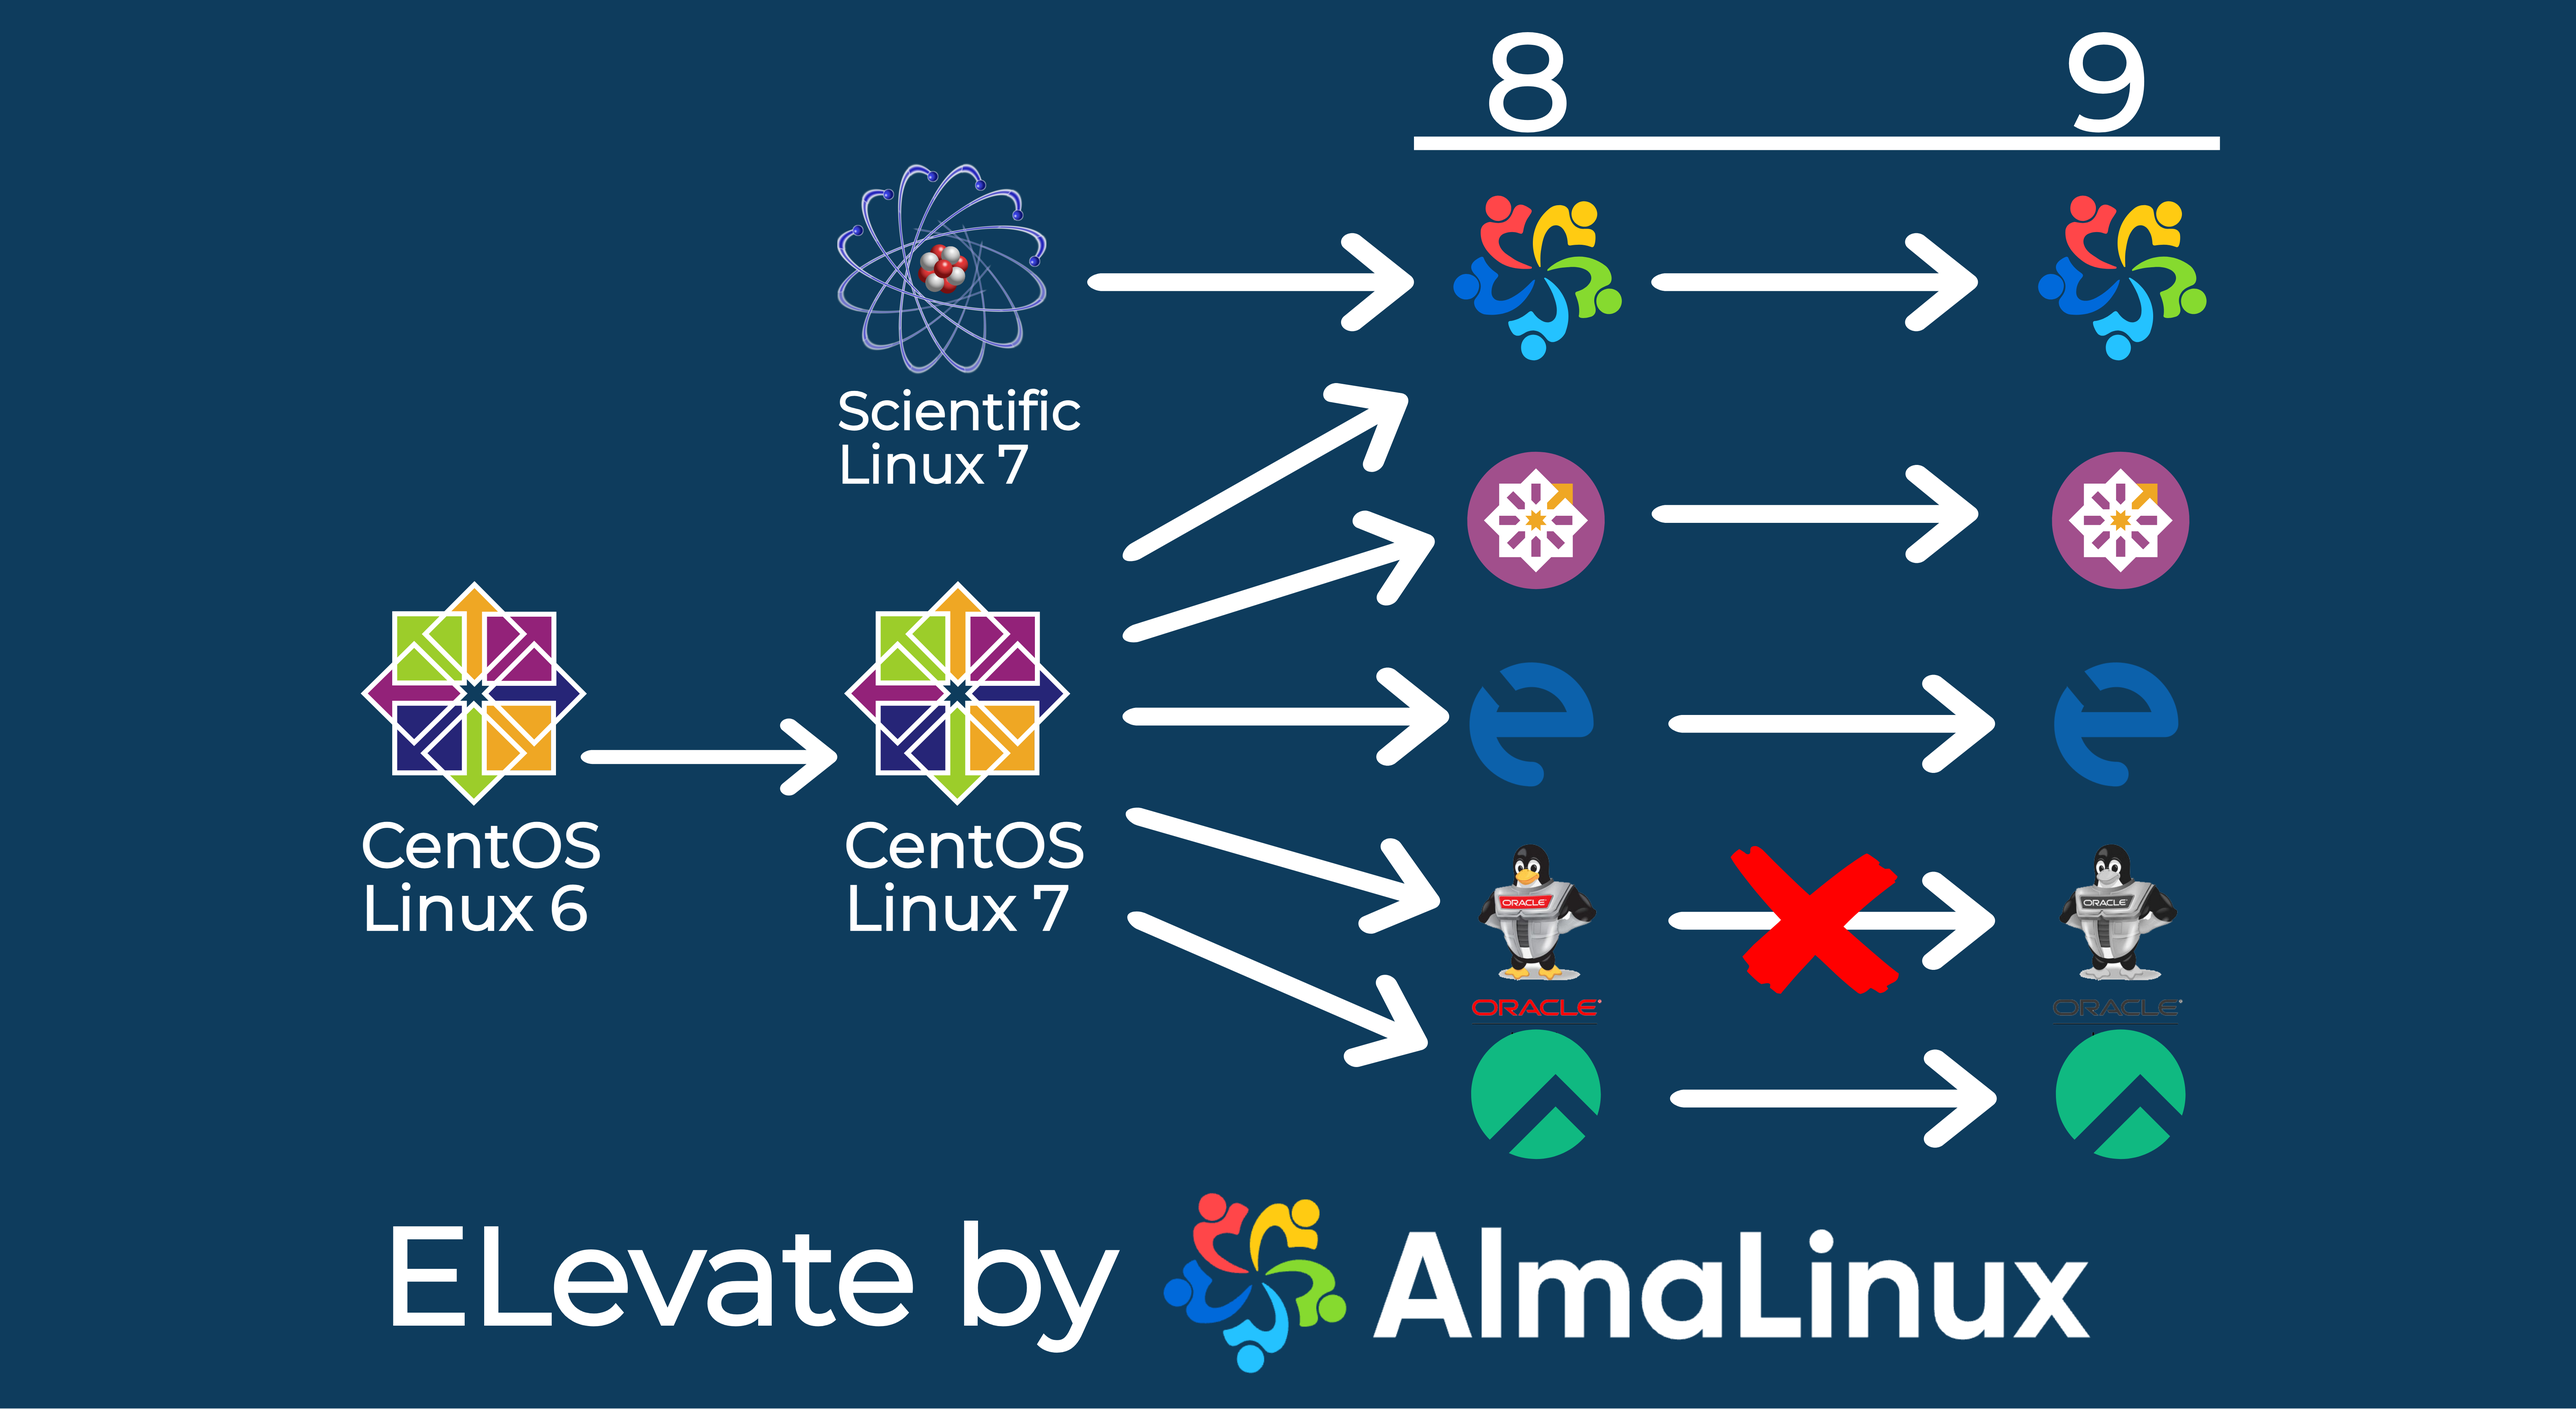
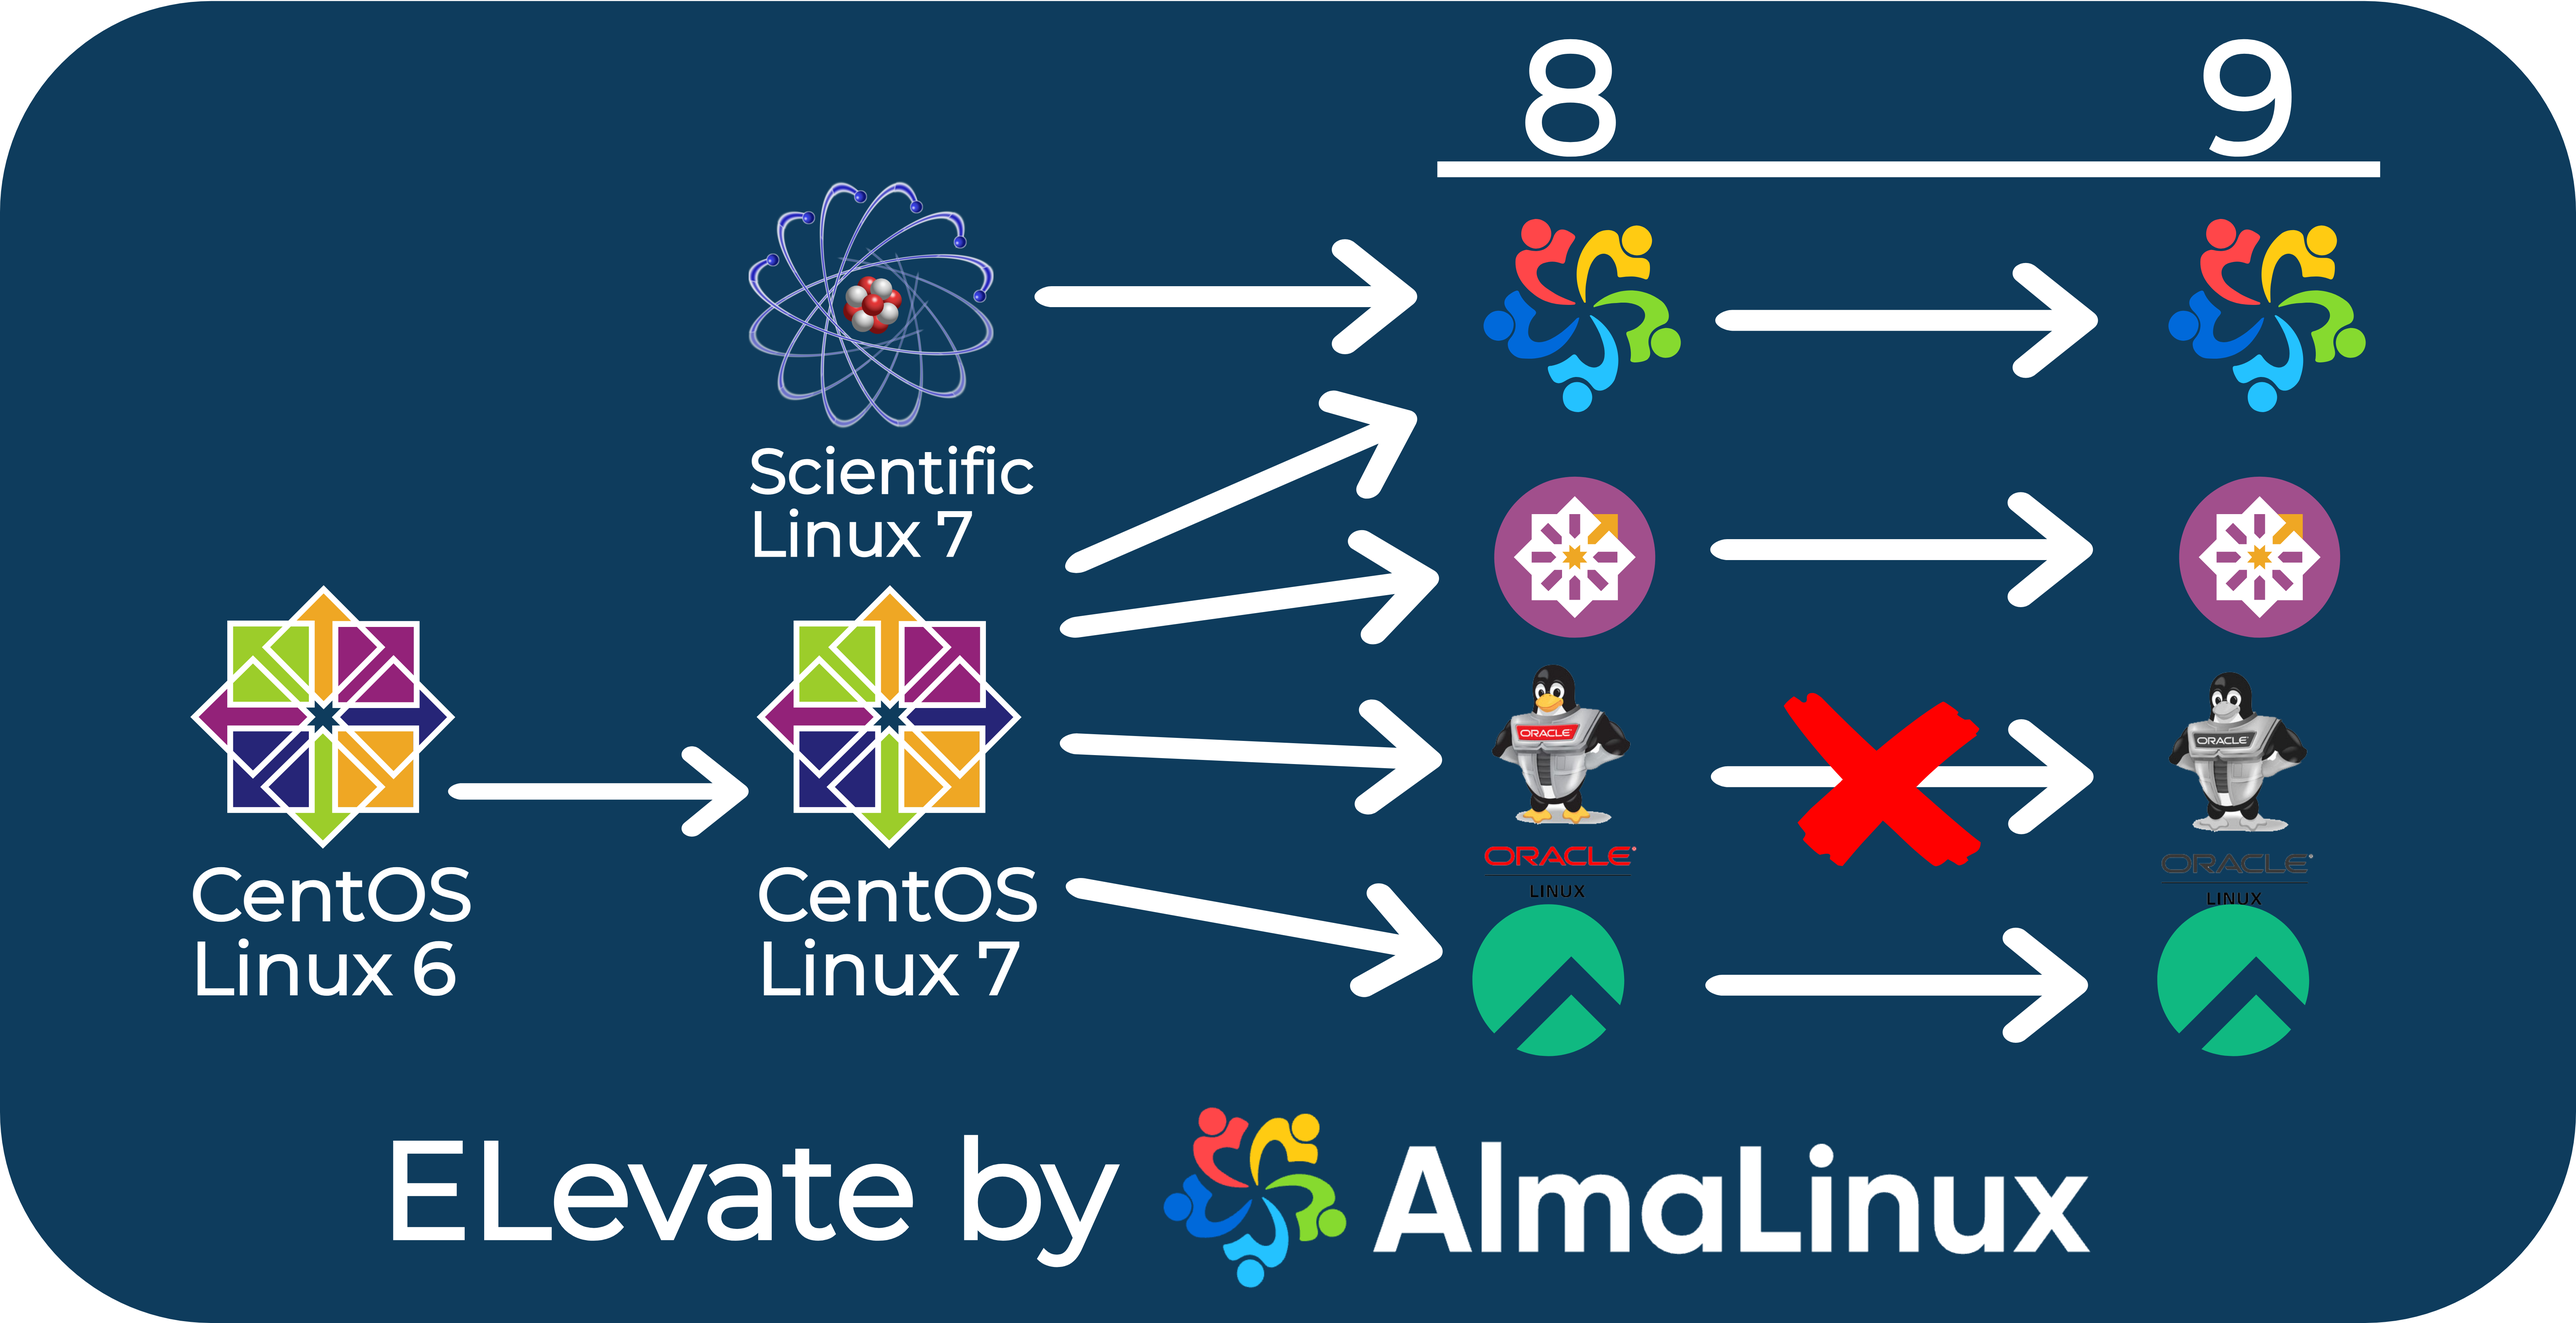
Discontinuing EuroLinux support (#711)
* Discontinuing EuroLinux support

diff --git a/layouts/elevate/single.html b/layouts/elevate/single.html
@@ -175,7 +175,7 @@ add new preview image for link previews
                             {{ i18n "ELevate supports the following upgrade and migration paths:" }} 
 							<ul>
 								<li>{{ i18n "Upgrade from CentOS 6 to CentOS 7" }}</li>
-								<li>{{ i18n "Upgrade from CentOS 7 to AlmaLinux 8, CentOS Stream 8, Euro Linux 8, Oracle Linux 8, or Rocky Linux 8" }}</li>
+								<li>{{ i18n "Upgrade from CentOS 7 to AlmaLinux 8, CentOS Stream 8, Oracle Linux 8, or Rocky Linux 8" }}</li>
 								<li>{{ i18n "Upgrade from Scientific Linux 7 to AlmaLinux 8" }}</li>
 								<li>{{ i18n "Upgrade from 8.x to 9.x within the same distribution" }}</li>
 							</ul>
